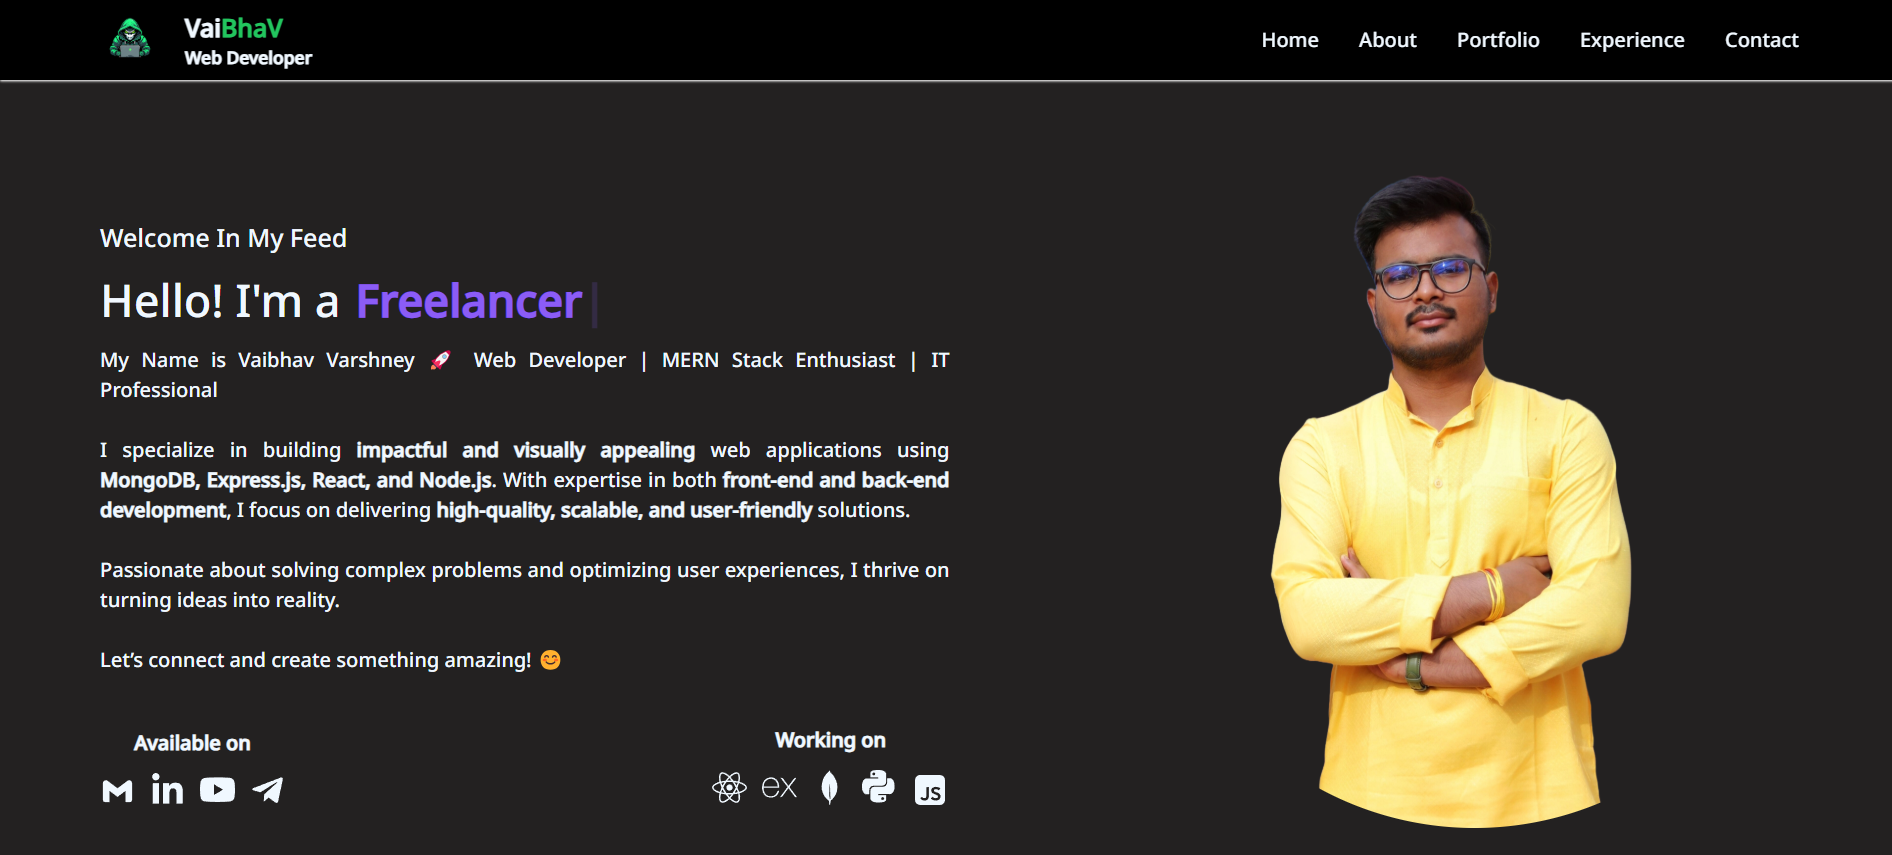
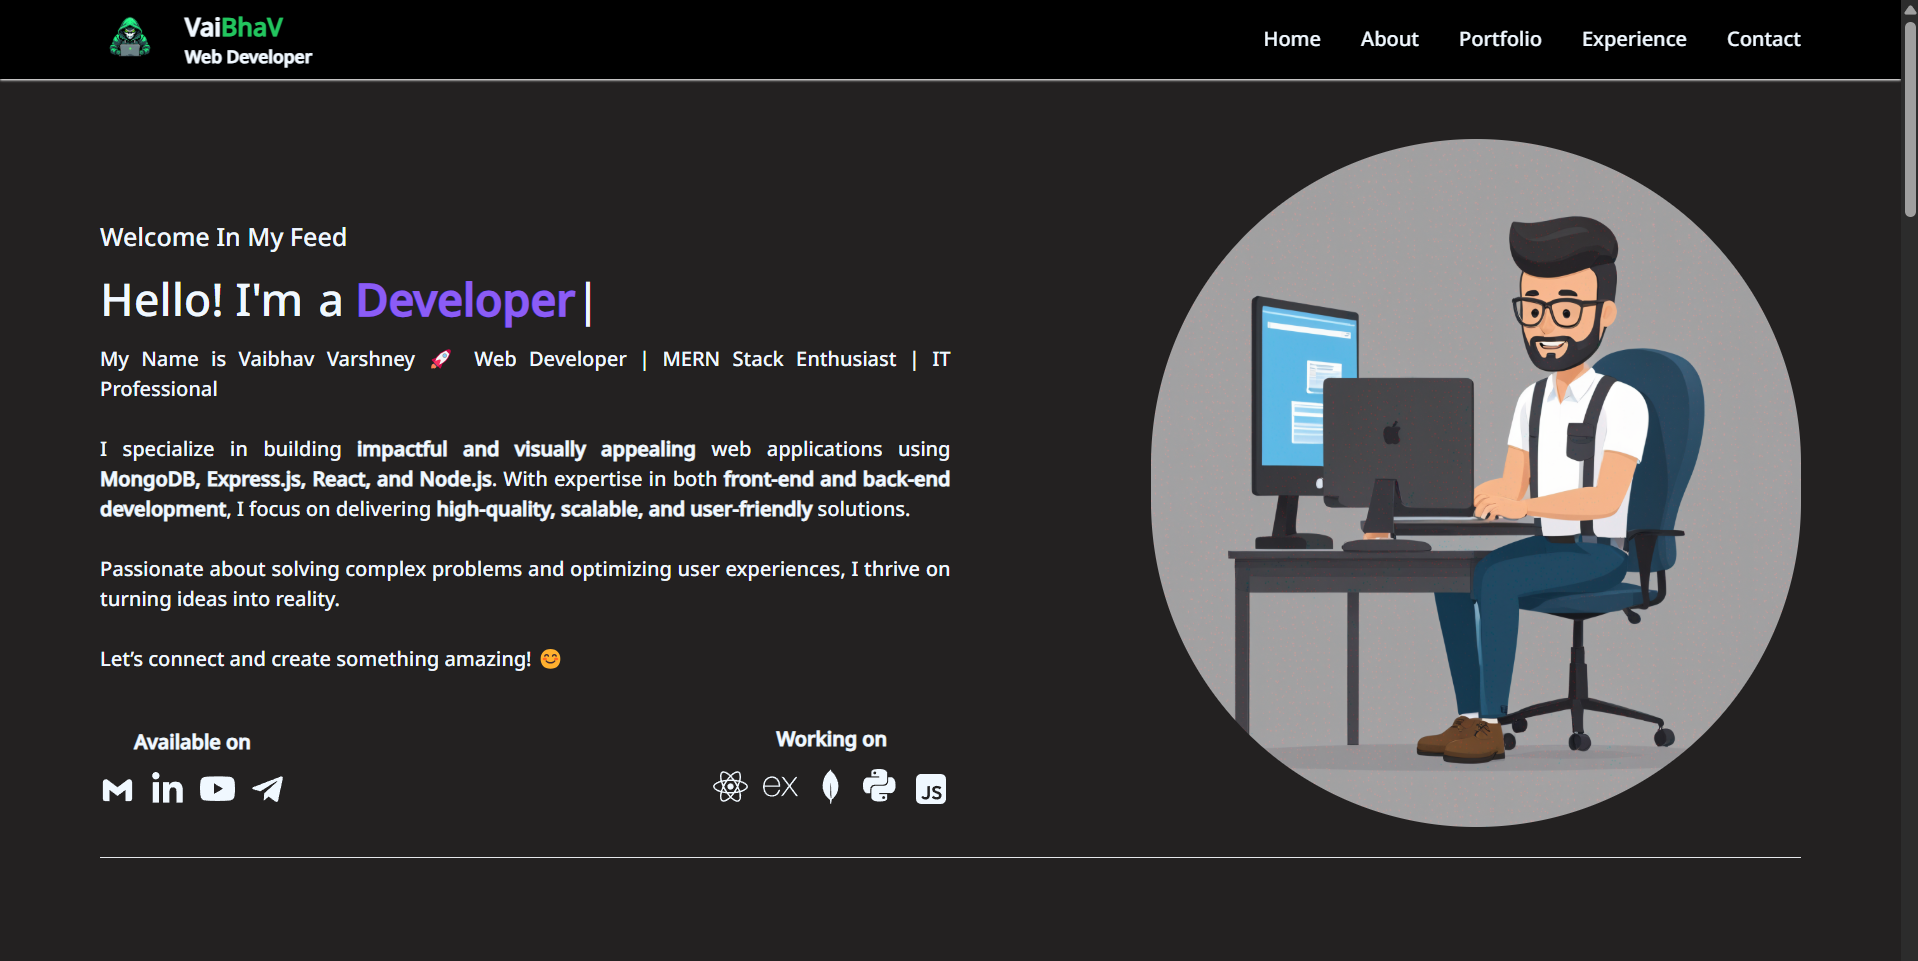
minor changes

diff --git a/src/components/Experience.jsx b/src/components/Experience.jsx
@@ -8,6 +8,7 @@ import monogodb from "/Image/mongodb.jpg";
 import react from "/Image/react.webp";
 import node from "/Image/node.png";
 import python from "/Image/python.png";
+import next from "/Image/next.png"
 
 function Experience() {
   const cardItem = [
@@ -32,9 +33,14 @@ function Experience() {
       name: "React",
     },
     {
-      id:5,
+      id: 5,
+      logo: next,
+      name: "Next",
+    },
+    {
+      id: 5,
       logo: node,
-      name: "NodeJS"
+      name: "NodeJS",
     },
     {
       id: 6,
@@ -42,22 +48,20 @@ function Experience() {
       name: "ExpressJS",
     },
     {
-      id:7,
+      id: 7,
       logo: monogodb,
-      name: "MongoDB"
+      name: "MongoDB",
     },
     {
-      id:8,
+      id: 8,
       logo: mysql,
-      name: "MySQL"
+      name: "MySQL",
     },
     {
-      id:9,
+      id: 9,
       logo: python,
-      name: "Python"
-    }
-    
-    
+      name: "Python",
+    },
   ];
   return (
     <div
@@ -83,8 +87,9 @@ function Experience() {
           ))}
         </div>
       </div>
-      <br/><br/>
-      <hr/>
+      <br />
+      <br />
+      <hr />
     </div>
   );
 }

diff --git a/src/components/Footer.jsx b/src/components/Footer.jsx
@@ -12,14 +12,14 @@ function Footer() {
         <div className="max-w-screen-2xl container mx-auto px-4 md:px-20">
           <div className=" flex flex-col items-center justify-center">
             <div className="flex space-x-4">
-              <FaFacebook size={24} />
-              <FaTwitter size={24} />
-              <FaInstagram size={24} />
-              <FaLinkedinIn size={24} />
+              <a target="_blank" href="https://www.facebook.com/"><FaFacebook size={24} /></a>
+              <a target="_blank" href="https://www.x.com/"><FaTwitter size={24} /></a>
+              <a target="_blank" href="https://www.instagram.com/"><FaInstagram size={24} /></a>
+              <a target="_blank" href="https://www.linkedin.com/in/im-vaibhav15/"><FaLinkedinIn size={24} /></a>
             </div>
             <div className="mt-8 border-t border-gray-700 pt-8 flex flex-col items-center">
               <p className="text-sm">
-                &copy; 2025 Your Company. All rights reserved.
+                &copy; 2025 ItsUs. All rights reserved.
               </p>
             </div>
           </div>

diff --git a/src/components/Home.jsx b/src/components/Home.jsx
@@ -1,5 +1,5 @@
 import React from 'react'
-import pic from "/Image/Vaibhav.png"
+import pic from "/Image/Dev.jpg"
 import { FaLinkedinIn } from "react-icons/fa";
 import { BsYoutube } from "react-icons/bs";
 import { FaTelegramPlane } from "react-icons/fa";
